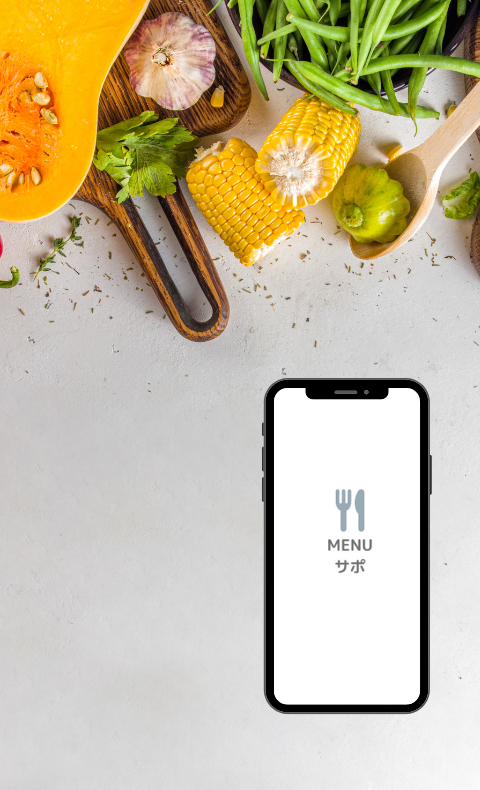
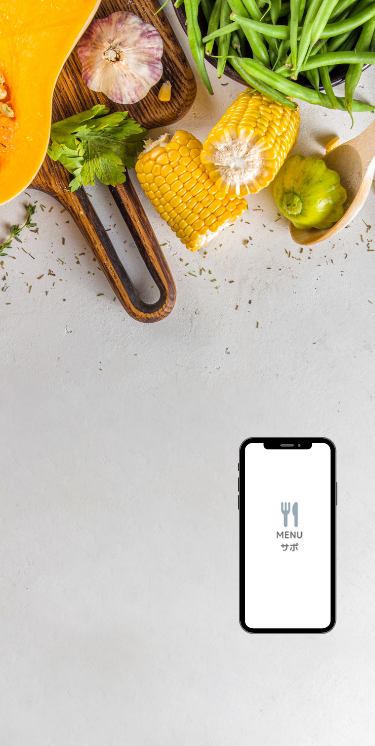
html,css修正

diff --git a/index.html b/index.html
@@ -73,16 +73,16 @@
         <div class="intro-wrapper">
           <div class="intro-wrapper__block">
             <div class="intro-wrapper__block__left">
-              <h3>食材からレシピの<br class="__tab">検索可能</h3>
+              <h3>食材からレシピの<br class="__tab"><br class="__pc"><br class="__sp">検索可能</h3>
               <h4>
                 <i class="fa-solid fa-circle-check"></i>
-                <p>和食、洋食、中華などの<span><br class="__sp"><br class="__original">約1000種類</span>のレシピを<br class="__sp">掲載</p>
+                <p>和食,洋食,中華などの<span><br class="__original"><br class="__pc"><br class="__tab"><br class="__sp">約1000種類</span>のレシピを掲載</p>
               </h4>
               <p class="txt">
-                食材名を登録することで<br class="__sp">おすすめの<br class="__pc">レシピを<br class="__sp"><br class="__original">リストアップします。
+                食材名を登録することでおすすめの<br class="__pc">レシピを<br class="__original">リストアップします。
                 <br>食材名から検索できるので<br class="__pc">”<br class="__sp">食材が余っているけど<br class="__sp"><br class="__original">何を作れば<br class="__pc">いいかわからない”
-                <br class="__pc"><br class="__sp"><br class="__original">"レパートリーが少なく<br class="__sp">マンネリしてきた”
-                <br class="__sp"><br class="__original">こんな方におすすめです。
+                <br class="__pc"><br class="__sp"><br class="__original">"<br class="__tab">レパートリーが少なく<br class="__sp">マンネリしてきた”
+                <br class="__sp"><br class="__original"><br class="__tab">こんな方におすすめです。
               </p>
             </div>
             <div class="intro-wrapper__block__right">
@@ -93,16 +93,16 @@
         <div class="intro-wrapper">
           <div class="intro-wrapper__block __rev">
             <div class="intro-wrapper__block__left">
-              <h3>食材からレシピの<br class="__tab">検索可能</h3>
+              <h3>食材からレシピの<br class="__tab"><br class="__pc"><br class="__sp">検索可能</h3>
               <h4>
                 <i class="fa-solid fa-circle-check"></i>
-                <p>和食、洋食、中華などの<span><br class="__sp"><br class="__original">約1000種類</span>のレシピを<br class="__sp">掲載</p>
+                <p>和食,洋食,中華などの<span><br class="__original"><br class="__pc"><br class="__tab"><br class="__sp">約1000種類</span>のレシピを掲載</p>
               </h4>
               <p class="txt">
-                食材名を登録することで<br class="__sp">おすすめの<br class="__pc">レシピを<br class="__sp"><br class="__original">リストアップします。
+                食材名を登録することでおすすめの<br class="__pc">レシピを<br class="__original">リストアップします。
                 <br>食材名から検索できるので<br class="__pc">”<br class="__sp">食材が余っているけど<br class="__sp"><br class="__original">何を作れば<br class="__pc">いいかわからない”
-                <br class="__pc"><br class="__sp"><br class="__original">"レパートリーが少なく<br class="__sp">マンネリしてきた”
-                <br class="__sp"><br class="__original">こんな方におすすめです。
+                <br class="__pc"><br class="__sp"><br class="__original">"<br class="__tab">レパートリーが少なく<br class="__sp">マンネリしてきた”
+                <br class="__sp"><br class="__original"><br class="__tab">こんな方におすすめです。
               </p>
             </div>
             <div class="intro-wrapper__block__right">
@@ -113,16 +113,16 @@
         <div class="intro-wrapper">
           <div class="intro-wrapper__block">
             <div class="intro-wrapper__block__left">
-              <h3>食材からレシピの<br class="__tab">検索可能</h3>
+              <h3>食材からレシピの<br class="__tab"><br class="__pc"><br class="__sp">検索可能</h3>
               <h4>
                 <i class="fa-solid fa-circle-check"></i>
-                <p>和食、洋食、中華などの<span><br class="__sp"><br class="__original">約1000種類</span>のレシピを<br class="__sp">掲載</p>
+                <p>和食,洋食,中華などの<span><br class="__original"><br class="__pc"><br class="__tab"><br class="__sp">約1000種類</span>のレシピを掲載</p>
               </h4>
               <p class="txt">
-                食材名を登録することで<br class="__sp">おすすめの<br class="__pc">レシピを<br class="__sp"><br class="__original">リストアップします。
+                食材名を登録することでおすすめの<br class="__pc">レシピを<br class="__original">リストアップします。
                 <br>食材名から検索できるので<br class="__pc">”<br class="__sp">食材が余っているけど<br class="__sp"><br class="__original">何を作れば<br class="__pc">いいかわからない”
-                <br class="__pc"><br class="__sp"><br class="__original">"レパートリーが少なく<br class="__sp">マンネリしてきた”
-                <br class="__sp"><br class="__original">こんな方におすすめです。
+                <br class="__pc"><br class="__sp"><br class="__original">"<br class="__tab">レパートリーが少なく<br class="__sp">マンネリしてきた”
+                <br class="__sp"><br class="__original"><br class="__tab">こんな方におすすめです。
               </p>
             </div>
             <div class="intro-wrapper__block__right">
@@ -295,7 +295,7 @@
       <section class="contact" id="contact">
         <h2 class="sb-ttl">
           <small>Contact</small>
-          <p>お問い合わせフォーム</p>
+          <p>お問い合わせ<br class="__sp">フォーム</p>
         </h2>
         <div class="contact-wrapper">
           <form class="contact-wrapper__form">

diff --git a/css/common.css b/css/common.css
@@ -126,7 +126,7 @@ li {
 /* introduction */
 .intro {
   background-color: rgba(250, 166, 26, 0.5);
-  padding: 3% 0;
+  padding: 5% 0;
 }
 .sb-ttl {
   text-align: center;
@@ -196,15 +196,18 @@ li {
   object-fit: cover;
 }
 /* method */
+.method {
+  padding: 7.5% 0;
+}
 .method-wrapper {
   width: 60%;
   margin: 3% auto 0;
   display: flex;
   justify-content: space-between;
 }
-.method .sb-ttl{
+/* .method .sb-ttl{
   padding: 3% 0;
-}
+} */
 /* .method-wrapper {
   display: flex;
   justify-content: space-between;
@@ -238,10 +241,11 @@ li {
 /* Q&A */
 .QA {
   background-color: rgba(250, 166, 26, 0.5);
+  padding: 7.5% 0;
 }
 .QA .sb-ttl{
-  margin-top: 5%;
-  padding: 3% 0;
+  /* margin-top: 5%; */
+  padding-bottom: 3%;
 }
 .QA-wrapper {
   width: 60%;
@@ -266,6 +270,9 @@ li {
   align-items: center;
 }
 /* news */
+.news {
+  padding: 5% 0;
+}
 .news .sb-ttl{
   padding: 3% 0;
 }
@@ -292,8 +299,11 @@ li {
   width: 55%;
 }
 /* contact */
+.contact {
+  padding: 5% 0;
+}
 .contact .sb-ttl{
-  padding: 3% 0;
+  padding-bottom: 3%;
 }
 .contact-wrapper {
   width: 60%;
@@ -432,11 +442,11 @@ li {
     font-size: 0.9rem;
   }
   .fv {
-    background-image: url("..//img/fv_ipad_pro.png");
+    background-image: url("..//img/fv-ipad-pro.png");
     background-size: cover;
     background-position: 50%;
     position: relative;
-    height: 100vh;
+    height: calc(100vh - 98px);
   }
   .fv-wrapper {
     position: absolute;
@@ -477,6 +487,9 @@ li {
   .intro-wrapper__block__right img {
     height: 100%;
     width: 100%;
+  }
+  .contact-wrapper__form__block__left p {
+    font-size: 1rem;
   }
   .contact-wrapper__form__block__btn {
     width: 30%;
@@ -547,14 +560,16 @@ li {
   }
   header .header-wrapper__nav__list__item {
     margin: 5% auto;
+    text-align: center;
   }
   header .header-wrapper__nav__list__item a{
     line-height: 3;
     font-size: 1.5rem;
   }
   header .header-wrapper__nav__list__item.__contact {
-    width: 13.5rem;
+    width: 12.5rem;
     border-radius: 50px;
+    margin: 5% auto;
   }
   body.nav-open header .drawer {
     border-top: 0;
@@ -575,8 +590,11 @@ li {
   .fv-wrapper {
     position: absolute;
     width: 40%;
-    top: 40%;
+    top: 35%;
     left: 5.5%;
+  }
+  .fv-wrapper__list__item {
+    width: 60%;
   }
   .sb-ttl small {
     font-size: 1.0rem;
@@ -585,40 +603,59 @@ li {
     font-size: 2.25rem;
   }
   .intro {
-    padding: 5% 0;
+    padding: 7.5% 0;
   }
   .intro-wrapper {
-    width: 80%;
+    width: 70%;
     padding: 5% 0;
   }
   .intro-wrapper__block {
     flex-direction: column;
+    width: 100%;
   }
   .intro-wrapper__block__left {
     width: 60%;
     margin: 0 auto;
   }
+  .intro-wrapper__block__left .txt {
+    line-height: 1.8;
+  }
   .intro-wrapper__block__right {
     width: 60%;
-    margin: 10% auto 0;
+    margin: 5% auto 0;
   }
+  .method {
+    padding: 10% 0;
+  }
+  
   .method-wrapper {
     flex-direction: column;
-    width: 80%;
+    width: 70%;
+  }
+  .method-wrapper__list {
+    margin-top: 0;
+    padding: 3% 0;
+  }
+  .method-wrapper__list__item {
+    font-size: 1.5rem;
   }
   .method-wrapper__ios, 
   .method-wrapper__android{
-    width: 50%;
+    width: 100%;
     margin: 0 auto;
   }
   .method-wrapper__ios {
     margin-bottom: 10%;
   }
+  
   .QA-wrapper__list__item {
     line-height: 1.2;
   }
   .news-wrapper__list__item .date {
     width: 25%;
+  }
+  .contact {
+    padding: 7.5% 0;
   }
   .contact-wrapper__form__block {
     display: block;
@@ -682,7 +719,7 @@ li {
   }
   
 
-@media screen and (max-width: 480px)  {
+@media screen and (max-width: 375px)  {
   .__original {
     display: none;
   }
@@ -703,18 +740,19 @@ li {
     right: 20px;
   }
   .fv {
-    background-image: url("..//img/fv_ipad_pro.png");
+    background-image: url("..//img/fv_sp.png");
     background-size: cover;
     background-position: 50%;
     position: relative;
-    height: calc(100vh - 66px);
+    /* height: calc(100vh - 66px); */
   }
   .fv-wrapper {
-    width: 50%;
-    left: 7.5px;
+    width: 60%;
+    top: 300px;
+    left: 2.5px;
   }
   .fv-wrapper .ttl p {
-    font-size: 1.8rem;
+    font-size: 1.5rem;
   }
   .fv-wrapper .ttl small {
     font-size: 0.75rem;
@@ -723,6 +761,12 @@ li {
   .fv-wrapper .ttl small::after {
     width: 1rem;
   }
+  /* .fv-wrapper__list {
+    display: flex;
+  } */
+  /* .fv-wrapper__list__item:nth-of-type(2) {
+    margin-top: 0;
+  } */
   .sb-ttl small {
     font-size: 0.8rem;
   }
@@ -731,6 +775,7 @@ li {
   }
   .intro-wrapper {
     margin-bottom: 7.5%;
+    padding: 1.5% 0;
   }
   .intro-wrapper:nth-of-type(3) {
     margin-bottom: 0%;
@@ -738,12 +783,15 @@ li {
   .intro-wrapper__block {
     width: 90%;
   }
+  .intro-wrapper__block__left {
+    width: 80%;
+  }
   .intro-wrapper__block__left h3 {
-    font-size: 1.5rem;
+    font-size: 1.35rem;
     margin-bottom: 10%;
   }
   .intro-wrapper__block__left h4 {
-    font-size: 0.8rem;
+    font-size: 0.7rem;
     margin-bottom: 10%;
   }
   .intro-wrapper__block__left h4 i {
@@ -758,9 +806,18 @@ li {
   .method-wrapper {
     width: 90%;
   }
+  .method-wrapper__ios,
+  .method-wrapper__android {
+    border: solid #febf64 3px;
+    width: 85%;
+  }
   .method-wrapper__ios h3 {
     font-size: 2rem;
   }
+  .method-wrapper__list__item {
+    font-size: 1.2rem;
+  }
+  
   .QA-wrapper__list__item {
     font-size: 0.65rem;
   }
@@ -783,7 +840,7 @@ li {
     width: 96.5%;
   }
   .contact-wrapper__form__block__btn {
-    width: 40%;
+    width: 50%;
   }
   .contact-wrapper__form__block__btn button {
     font-size: 0.9rem;
